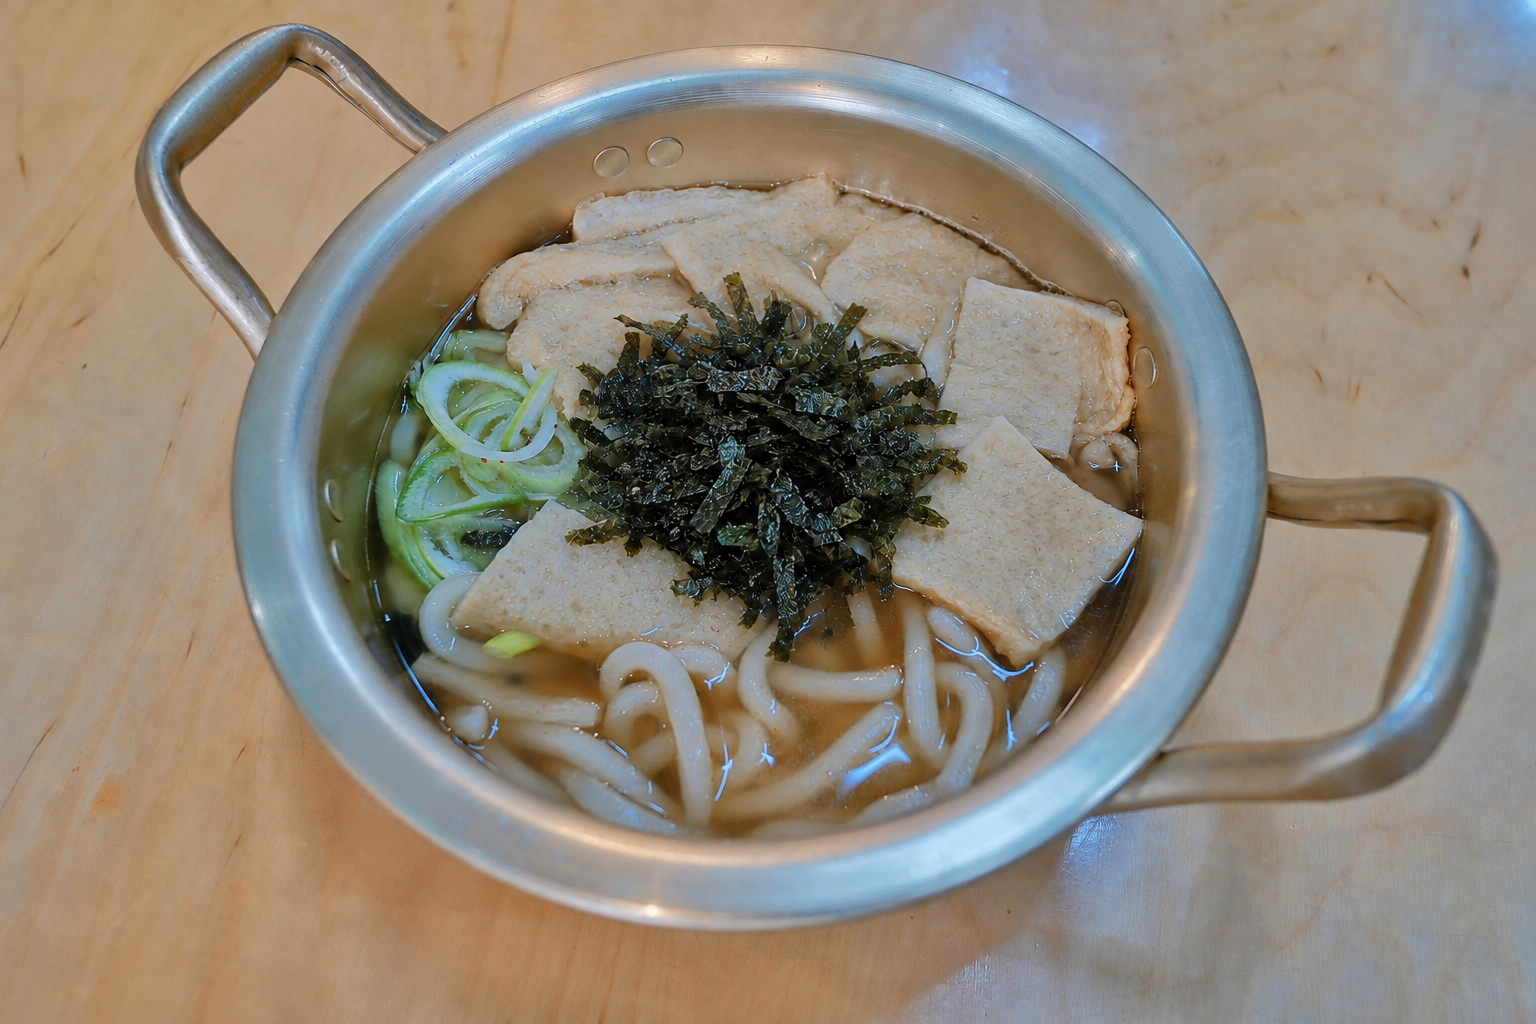
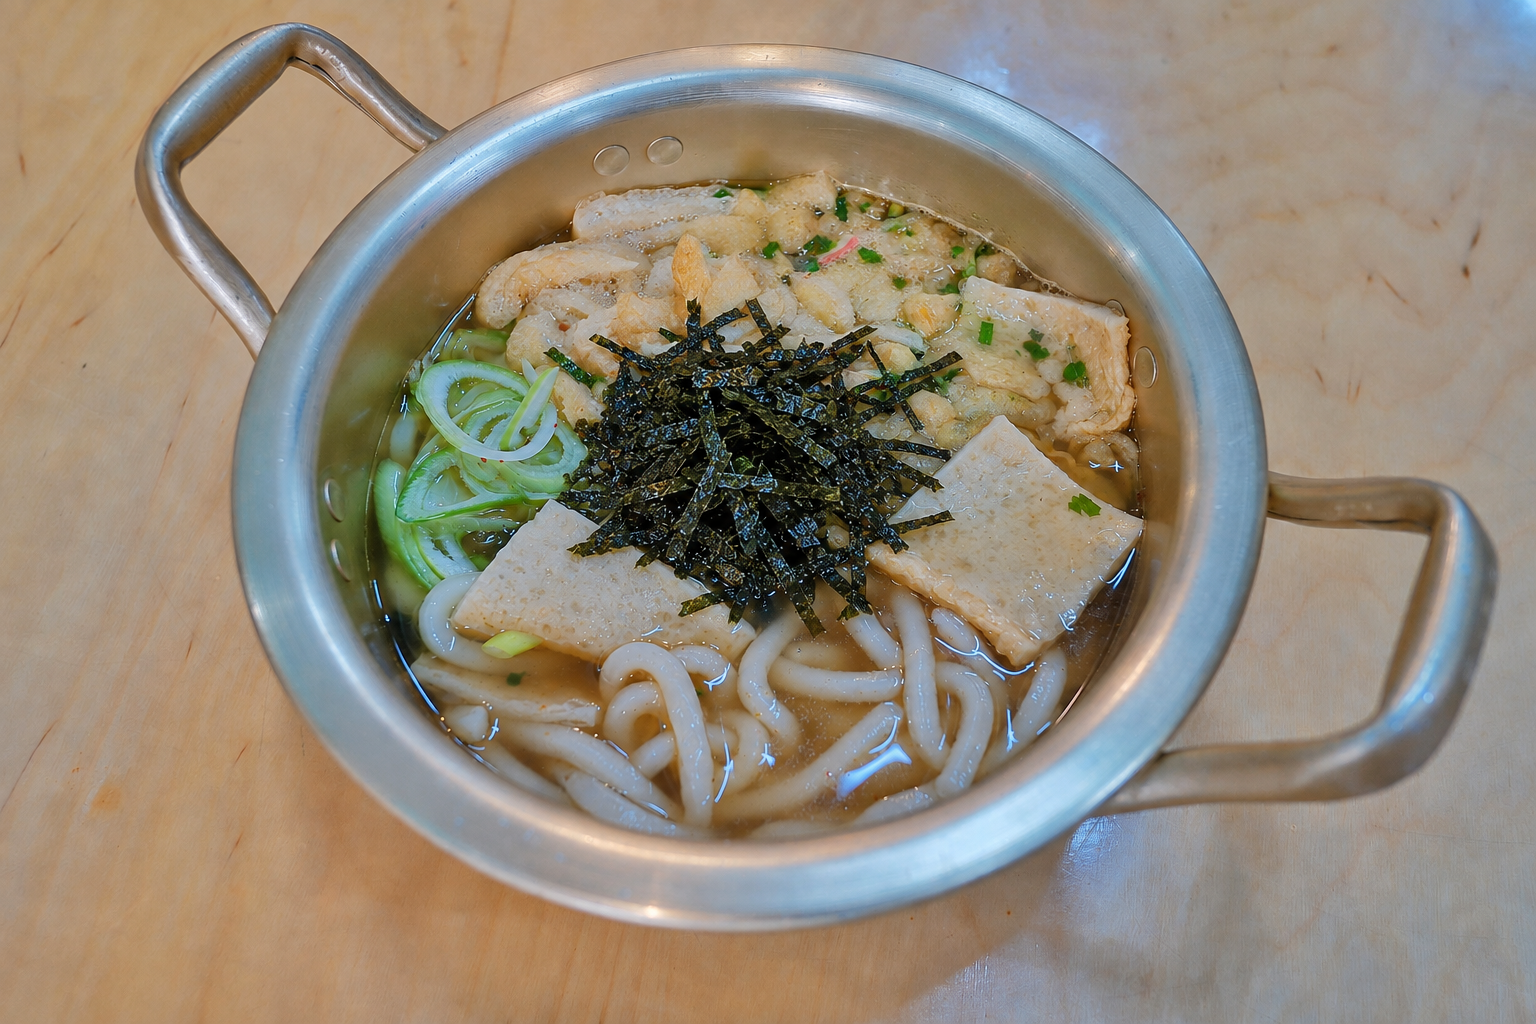
Release TV menu board v1.3

diff --git a/board.html b/board.html
@@ -6,7 +6,7 @@
     <meta name="theme-color" content="#e94f34" />
     <meta name="description" content="섹시한 꾼만두 디지털 메뉴판" />
     <title>섹시한 꾼만두 | 메뉴판</title>
-    <link rel="stylesheet" href="src/styles.css?v=20260906-05" />
+    <link rel="stylesheet" href="src/styles.css?v=20260906-07" />
   </head>
   <body>
     <main id="app" class="app" aria-live="polite"></main>
@@ -17,7 +17,7 @@
       <button type="button" class="control-button control-button--wide" id="fullscreen" aria-label="전체 화면">전체 화면</button>
     </nav>
     <noscript>이 메뉴판을 보려면 JavaScript를 켜 주세요.</noscript>
-    <script src="content/menu-data.js?v=20260906-05"></script>
-    <script src="src/app.js?v=20260906-05"></script>
+    <script src="content/menu-data.js?v=20260906-07"></script>
+    <script src="src/app.js?v=20260906-07"></script>
   </body>
 </html>

diff --git a/src/styles.css b/src/styles.css
@@ -212,7 +212,7 @@ button { font: inherit; }
 .static-gallery-card > figure img { width: 100%; height: 100%; object-fit: cover; }
 .static-gallery-card > .static-photo--tangsuyuk img { object-position: center center; transform: scale(1.50); }
 .static-gallery-card > .static-photo--fishcake img { object-position: center center; transform: translateY(2.5%) scale(1.12); }
-.static-gallery-card > .static-photo--noodle img { object-position: center center; transform: translateY(3.5%) scale(1.01); }
+.static-gallery-card > .static-photo--noodle img { object-position: center center; transform: translateY(3.5%) scale(1.03); }
 
 .static-menu-row {
   display: grid;

diff --git a/content/menu-data.js b/content/menu-data.js
@@ -67,7 +67,7 @@ window.MENU_BOARD_DATA = {
   ],
   gallery: [
     { categoryId: "special", image: "content/assets/images/tangsuyuk.jpeg?v=20260808-51", alt: "옛날 탕수육" },
-    { categoryId: "noodle", image: "content/assets/images/pot-udon-seaweed-retouched.png?v=20260906-05", alt: "김가루 리터치 냄비우동" },
+    { categoryId: "noodle", image: "content/assets/images/pot-udon-seaweed-retouched.png?v=20260906-07", alt: "김가루 리터치 냄비우동" },
     { categoryId: "special", image: "content/assets/images/fishcake-generated-v2.png?v=20260810-96", alt: "콩나물어묵" }
   ],
   video: {

diff --git a/index.html b/index.html
@@ -13,7 +13,7 @@
       <iframe
         class="signage-frame"
         title="섹시한 꾼만두 디지털 메뉴판"
-        src="board.html?v=20260906-05"
+        src="board.html?v=20260906-07"
         allow="autoplay; fullscreen"
         allowfullscreen
       ></iframe>

diff --git a/VERSION_V1_3.md b/VERSION_V1_3.md
@@ -1,0 +1,31 @@
+# 섹시한 꾼만두 TV 메뉴판 V1.3
+
+최종 확정일: 2026-09-06
+
+## V1.3 확정 변경
+
+- 여름 한정 냉메밀을 제거하고 냄비우동을 복원했다.
+- 냄비우동 사진은 고명과 바삭한 채 김가루를 살린 `pot-udon-seaweed-retouched.png`를 사용한다.
+- 냄비우동 사진은 중앙 103% 확대, 아래 3.5% 이동으로 표시한다.
+- 냄비우동 사진은 원본, 김가루 제외, 김가루 리터치의 세 기준본으로 관리한다.
+- 음료수를 별미 메뉴에서 면 메뉴로 이동했다.
+- 별미 메뉴는 옛날 탕수육, 유린 탕수육, 콩나물어묵의 3개 행이 카드 전체 높이를 균등하게 사용한다.
+- 옛날 탕수육과 유린 탕수육의 소·대 가격은 넓어진 행 안에서 위아래 간격을 확대했다.
+- 변경 내용은 1페이지와 2페이지에 동일하게 적용한다.
+
+## 유지 사항
+
+- 탕수육 소·대 가격과 숫자 끝 정렬은 V1.2 기준을 유지한다.
+- 메뉴 카드 색상, 테두리, 그림자, 메뉴명 글꼴과 전체 카드 배치는 유지한다.
+- 1페이지는 30초 표시 후 2페이지로 전환하고, 동영상 종료 후 1페이지로 복귀한다.
+- 일반 버전 화면 전환 애니메이션을 유지한다.
+- A4 한국어·외국어 메뉴판은 기존 V1 승인본을 변경하지 않는다.
+
+## 기준 파일
+
+- 메뉴 데이터: `content/menu-data.js`
+- 렌더링: `src/app.js`
+- 스타일: `src/styles.css`
+- 버전 메타데이터: `menu-version.json`
+
+Git 태그 `v1.3`은 이 확정 상태를 가리킨다.

diff --git a/content/assets/images/사진-교체-안내.md b/content/assets/images/사진-교체-안내.md
@@ -9,7 +9,7 @@
 | `mandu-bibim.png` | 대표 세트 사진, 영상 포스터 | 대표 카드 전용 구도 |
 | `tangsuyuk.jpeg` | 상단 옛날 탕수육 | 중앙 150% 확대 |
 | `fishcake-generated-v2.png` | 상단 콩나물어묵 | 중앙 112% 확대, 아래 2.5% 이동 |
-| `pot-udon-seaweed-retouched.png` | 상단 김가루 리터치 냄비우동 | 중앙 101% 확대, 아래 3.5% 이동 |
+| `pot-udon-seaweed-retouched.png` | 상단 김가루 리터치 냄비우동 | 중앙 103% 확대, 아래 3.5% 이동 |
 
 ## 교체용으로 보관
 
@@ -21,6 +21,14 @@
 | `pot-udon-with-seaweed.png` | 김가루 있는 냄비우동 | 직전 대시보드 사용본, 중앙 104% 확대용 |
 | `pot-udon-retouched-v2.png` | 김가루 있는 냄비우동 이전 파일명 | 기존 참조와 변경 이력 보존 |
 | `fishcake.png` | 콩나물어묵 이전 사진 | 교체 이력 보존 |
+
+## 냄비우동 기준 사진 3종
+
+| 버전 | 기준 파일 | 상태 |
+|---|---|---|
+| 냄비우동 원본 | `pot-udon.jpg` | 촬영 원본, 눅눅한 김가루 포함 |
+| 김가루 제외 | `pot-udon-no-seaweed.png` | 김가루와 고춧가루를 제거하고 면·어묵으로 복원 |
+| 김가루 리터치 | `pot-udon-seaweed-retouched.png` | 고명을 살리고 바삭한 채 김가루를 새로 배치한 현재 사용본 |
 
 계절 사진을 바꿀 때는 파일을 덮어쓰거나 삭제하지 말고 `gallery`의 경로만 변경합니다. 브라우저 캐시 방지를 위해 경로 뒤의 `?v=날짜-차수`와 `index.html`, `board.html`의 버전값도 함께 갱신합니다.
 
